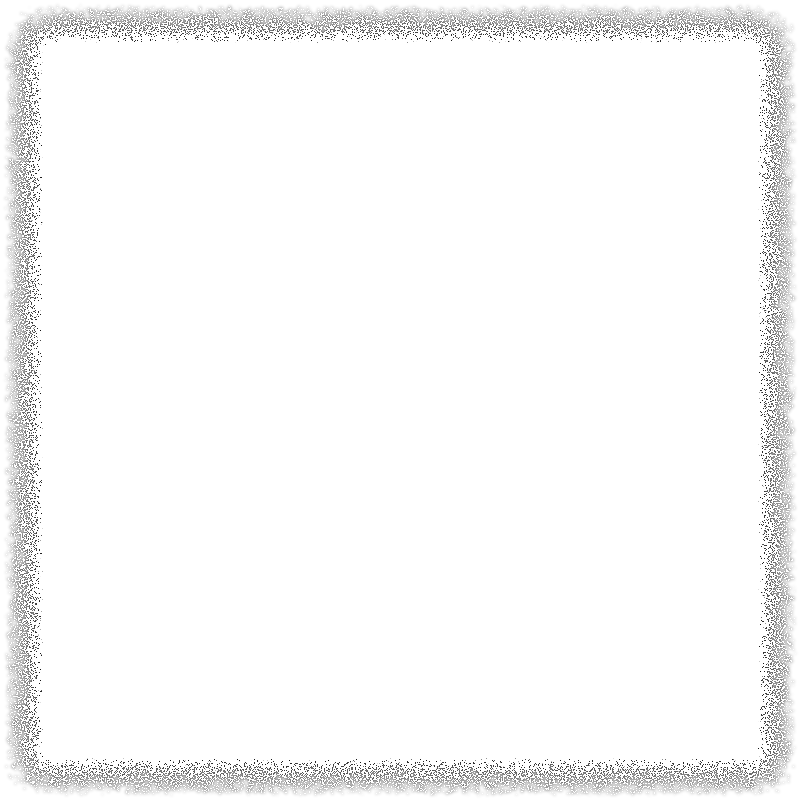
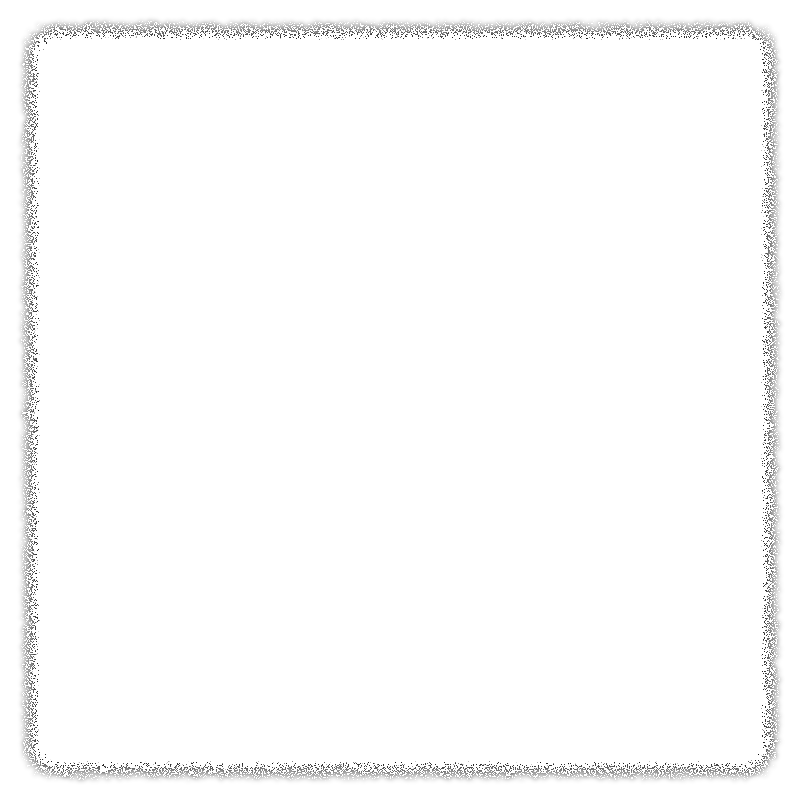
feat(style): Phấn — rung tay chữ (boiling), chữ-nền mờ/nhỏ, caption nâng cao
Theo phản hồi khi XEM VIDEO CHẠY (qua Gemini):
- Rung tay nhẹ (boiling) cho chữ Phấn: mỗi tiếng dao động vài px theo sin(t)
  lệch pha — nét vẽ tay "sống", hết cảm giác chữ máy lì. Gated cho Phấn.
- Chữ-nền nhỏ+mờ (0.26→0.20, α0.925→0.5): hết át chủ thể/loãng tập trung.
- Caption nâng lên (đáy dải 0.8→0.73): tránh đè mic/bàn tay đang cử động.
- Mask rách o-rach mềm hơn (bớt cảm giác vỡ pixel).

Changed region(s): [[0.0, 0.0, 1.0, 1.0]]

diff --git a/server/render.ts b/server/render.ts
@@ -1566,9 +1566,18 @@ export async function burnElements(
       // MỘT tệp cho mỗi tiếng, dùng chung cho cả lượt vẽ thường lẫn lượt vẽ
       // sáng — hai lượt vẽ ĐÚNG một chữ, nên hai tệp là hai chỗ để lệch.
       const wordTextFile = textFileFor(projectId, String(textFileSeq++), word.text);
+      // RUNG TAY NHẸ (boiling) như Chalk: mỗi tiếng dao động vài px theo sin(t),
+      // lệch pha theo vị trí — đọc ra nét vẽ tay "sống" chứ không phải cả dòng rung
+      // đều. CHỈ bộ có chữ-nền (Phấn/viết tay); bộ in đậm (Nhịp đen) giữ chữ đứng.
+      const wig = pack.behindText
+        ? `+${Math.max(1, Math.round(word.fontSize * 0.013))}*sin(t*5.5+${flat})`
+        : "";
+      const wigY = pack.behindText
+        ? `+${Math.max(1, Math.round(word.fontSize * 0.011))}*sin(t*4.5+${(flat * 1.7).toFixed(2)})`
+        : "";
       const body =
         `fontfile='${fontPath}':textfile='${wordTextFile}':` +
-        `fontsize=${word.fontSize}:x='${spot.x}':y='${spot.y}':` +
+        `fontsize=${word.fontSize}:x='${spot.x}${wig}':y='${spot.y}${wigY}':` +
         edge +
         box;
       draws.push(
@@ -1611,7 +1620,7 @@ export async function burnElements(
           : box;
         const litBody =
           `fontfile='${fontPath}':textfile='${wordTextFile}':` +
-          `fontsize=${word.fontSize}:x='${spot.x}':y='${spot.y}':` +
+          `fontsize=${word.fontSize}:x='${spot.x}${wig}':y='${spot.y}${wigY}':` +
           edge +
           litBox;
         draws.push(

diff --git a/server/style-pack-catalog.ts b/server/style-pack-catalog.ts
@@ -319,11 +319,11 @@ export const PHAN: StylePack = {
   },
   behindText: {
     font: "voice",
-    // LỚN như "YOUTH" của Chalk nhưng KHÔNG quá khổ: 0.42 thì từ dài như
-    // "TensorLab" tràn ra ngoài, cắt cụt giữa chữ đọc ra như lỗi. 0.26 vẫn là một
-    // MẢNG chữ lớn lấp nền mà từ dài vừa đủ trong khung.
-    sizeShare: 0.26,
-    tone: { color: "#FFFFFF", alpha: 0.925 },
+    // Chữ chìm SAU người — phải MỜ và VỪA, không tranh nét với mặt/nội dung. To
+    // quá (0.42) hoặc rõ quá (α0.925) thì nó át chủ thể, loãng tập trung. 0.20 +
+    // α0.5: vẫn là một mảng chữ nền có mặt, nhưng lùi hẳn về sau.
+    sizeShare: 0.2,
+    tone: { color: "#FFFFFF", alpha: 0.5 },
     repeats: 3,
     // 2,4 giây — con số chụm nhất trong cả bộ số đo: sáu bộ mẫu ra 2,1 · 2,5 ·
     // 2,65 · 2,4 · 2,4 · 2,1–3,5. Bản đầu tôi đặt 4,5 theo cảm giác, gần gấp đôi.

diff --git a/server/text-layout.ts b/server/text-layout.ts
@@ -55,7 +55,9 @@ export const BAND_ANCHOR: Record<
   top: { edge: "top", at: 0.12 },
   // Giữa neo bằng TÂM khối, nên nó tự căn giữa dù cao mấy dòng.
   middle: { edge: "center", at: 0.5 },
-  bottom: { edge: "bottom", at: 0.8 },
+  // Đáy khối chữ ở 73% (trước 80%): 80% rơi đúng vùng mic/bàn tay đang cử động,
+  // chữ đè lên đó đọc ra rối. Nâng lên cho chữ nằm trên vùng ngực/vai trống.
+  bottom: { edge: "bottom", at: 0.73 },
 };
 
 /**
